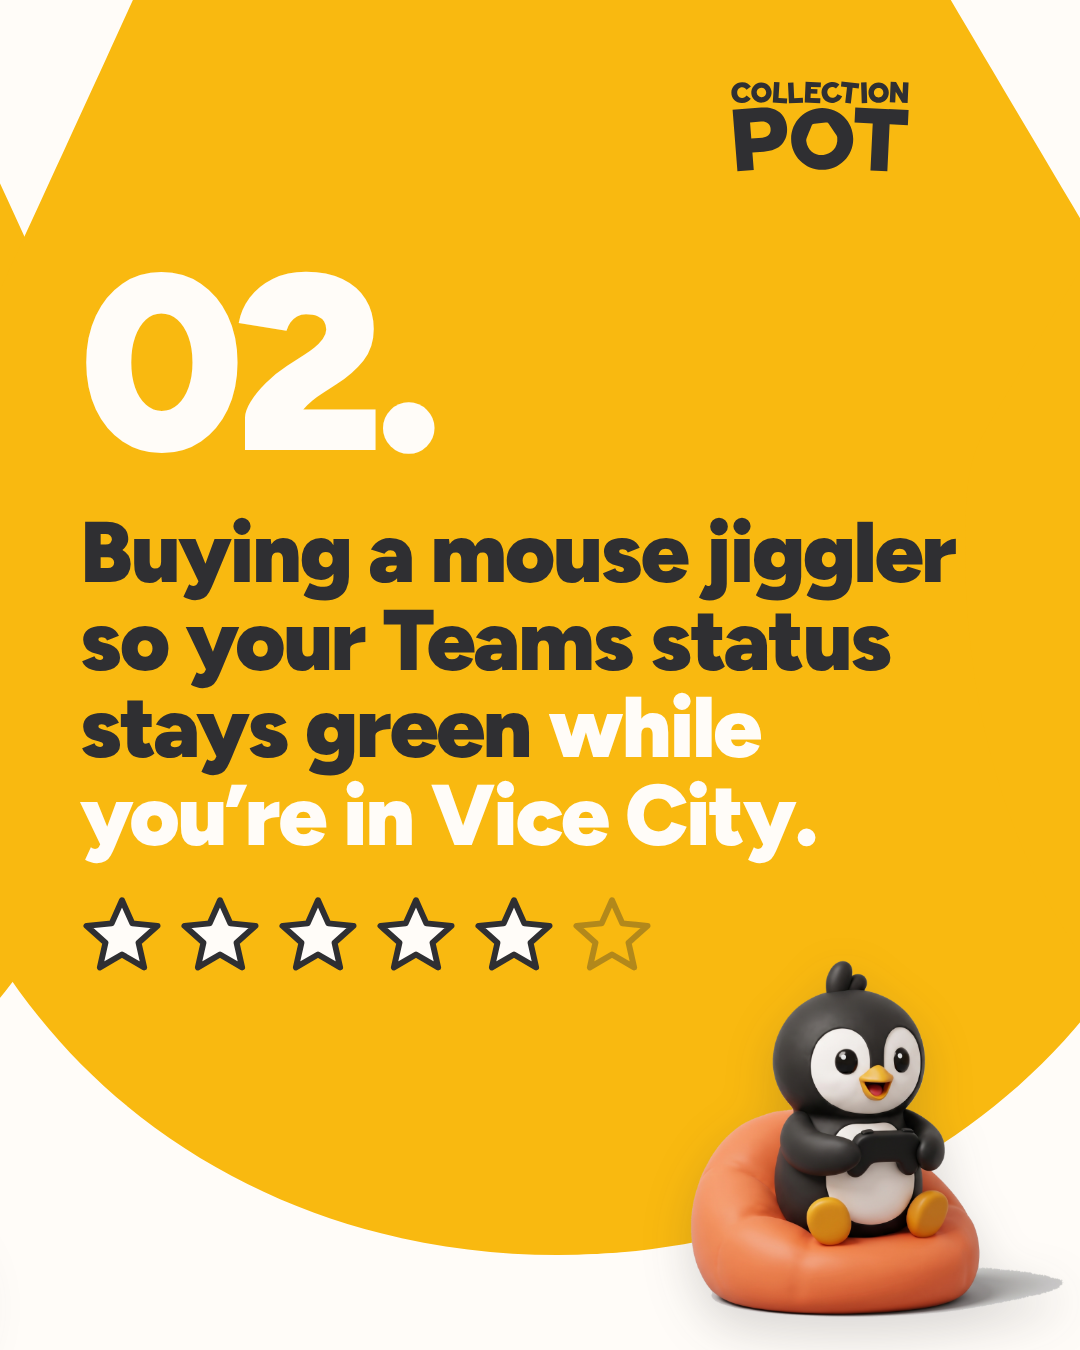
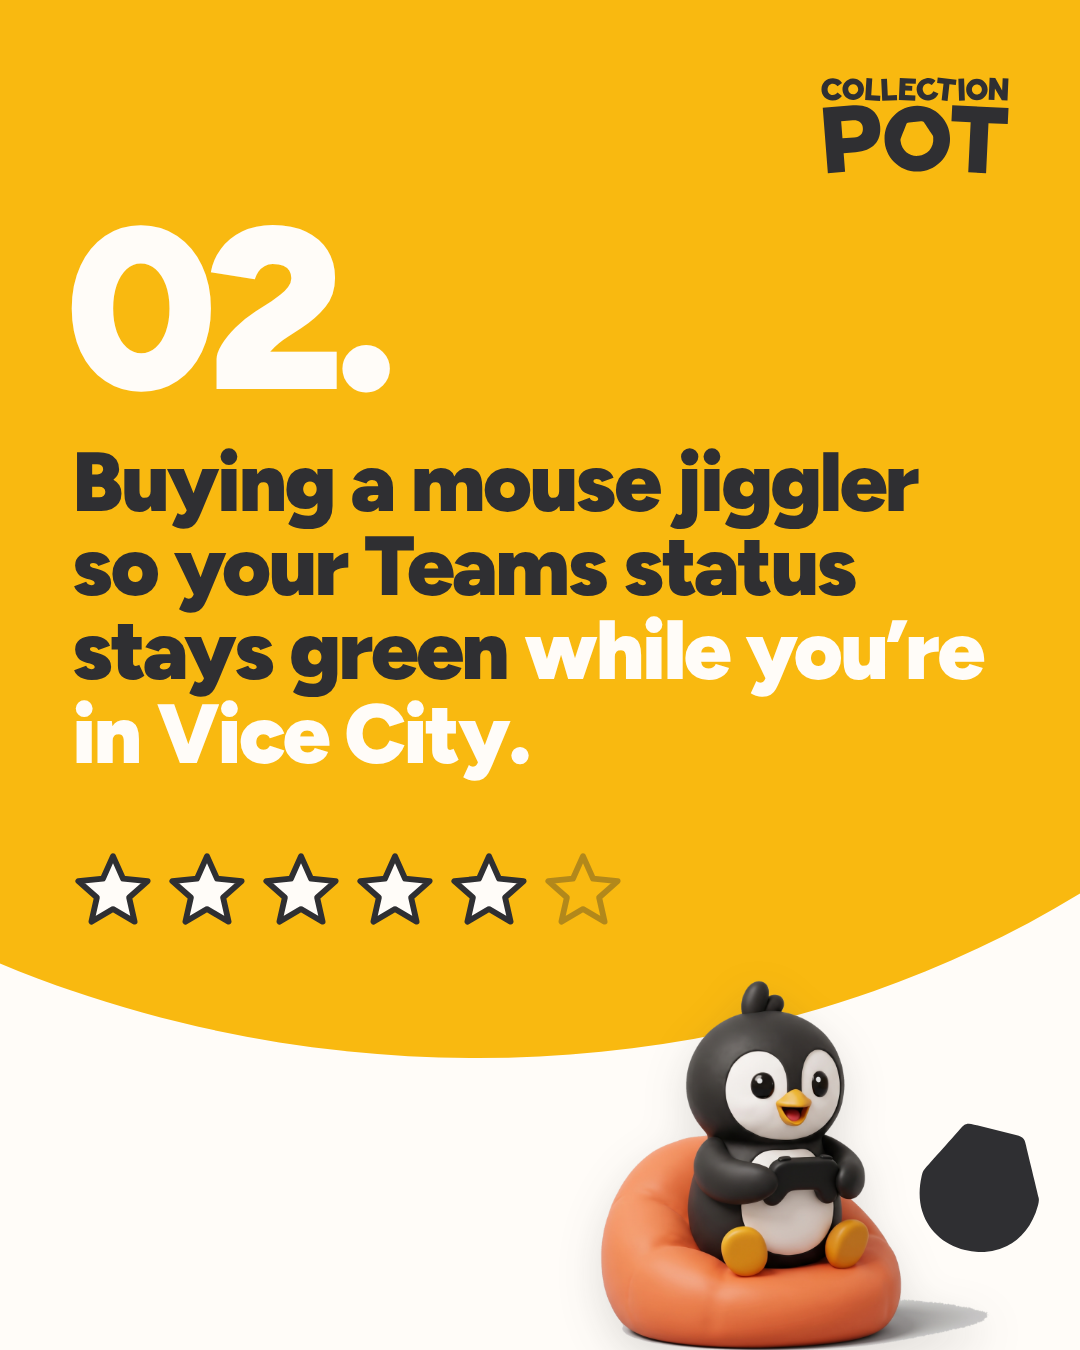
GTA 6 carousel v3: layouts rebuilt from guidelines p.44 'The Pot as a background'
Claude-Session: https://claude.ai/code/session_011HgaDvzB2TFRzZhuJwdZ16

diff --git a/collection-pot/gta6-wanted-level/carousel.html b/collection-pot/gta6-wanted-level/carousel.html
@@ -1,78 +1,117 @@
 <!doctype html>
-<html><head><meta charset="utf-8"><title>GTA 6 week — Wanted level carousel</title>
+<html lang="en-GB"><head><meta charset="utf-8"><title>GTA 6 week — Wanted level carousel (v3, Pot as a background)</title>
 <style>
 @font-face{font-family:Fig;font-weight:900;src:url(fonts/figtree-latin-900-normal.woff2)}
 @font-face{font-family:Fig;font-weight:800;src:url(fonts/figtree-latin-800-normal.woff2)}
-/* Collection Pot Brand Guidelines (Nov 2026): Pot of Gold, Work Bash Black, Wedding White */
-:root{--ink:#2F2F32;--yel:#F9B910;--white:#FFFCF8}
+/* Collection Pot Brand Guidelines (Nov 2026). Layouts follow p.44 "The Pot as a background":
+   the Pot is scaled far past the frame so its straight shoulders and soft base divide the space into gold and white. */
+:root{--gold:#F9B910;--ink:#2F2F32;--white:#FFFCF8}
 *{margin:0;padding:0;box-sizing:border-box}
-body{background:var(--white);width:6480px;height:1350px;overflow:hidden}
-#strip{position:relative;width:6480px;height:1350px;background:var(--white);overflow:hidden;color:var(--ink);font-family:Fig}
-svg.bg{position:absolute;left:0;top:0}
+body{background:#d9d9d9;display:flex;flex-direction:column;gap:40px;padding:40px;font-family:Fig;color:var(--ink)}
+.slide{position:relative;width:1080px;height:1350px;overflow:hidden}
+.gold{background:var(--gold)}.white{background:var(--white)}
 .a{position:absolute}
-.logo{position:absolute;top:80px;width:180px}
-.col{position:absolute;top:250px;width:880px;display:flex;flex-direction:column;gap:34px}
-.h{font:900 92px/1.02 Fig;letter-spacing:-.025em}
-.w{color:var(--white)}
-.num{font:900 250px/.9 Fig;letter-spacing:-.04em;color:var(--white)}
-.stars{display:flex;gap:14px}
-.stars svg{width:84px;height:84px}
-.chip{position:absolute;filter:drop-shadow(0 18px 24px rgba(47,47,50,.18))}
-.tag{display:inline-block;font:800 30px Fig;letter-spacing:.14em;text-transform:uppercase;background:var(--ink);color:var(--yel);padding:12px 20px 10px;border-radius:10px}
+svg.pot{position:absolute;overflow:visible}
+.h{font:900 104px/1 Fig;letter-spacing:-.03em}
+.sub{font:900 50px/1.12 Fig;letter-spacing:-.015em}
+.w{color:var(--white)}.g{color:var(--gold)}
+.num{font:900 230px/.86 Fig;letter-spacing:-.045em}
+.stars{display:flex;gap:12px}
+.stars svg{width:82px;height:82px}
+.chip{position:absolute;filter:drop-shadow(0 16px 22px rgba(47,47,50,.16))}
+.logo{position:absolute}
+.spark{position:absolute;width:56px;height:56px}
 </style></head><body>
-<div id="strip">
-  <!-- Brand device: the Pot. One giant Pot of Gold per slide on Wedding White (official PotShape.svg from the guidelines):
-       the rounded base shows at the bottom, the shoulders meet the neighbouring Pots so the carousel reads as one strip -->
-  <svg class="bg" width="6480" height="1350" viewBox="0 0 6480 1350">
-    <defs><symbol id="pot" viewBox="1018 100 852 880"><path d="M 1596.980469 100 L 1290.980469 100 C 1228.585938 100 1220.882812 120.351562 1203.972656 152.773438 C 1195.335938 171.796875 1041.378906 462.773438 1027.488281 491.195312 C 1018.324219 507.746094 1017.730469 526.679688 1018.011719 545.179688 C 1023.640625 837.699219 1233.628906 980 1443.683594 980 L 1444.273438 980 C 1654.347656 980 1864.316406 837.71875 1869.949219 545.179688 C 1870.230469 526.679688 1869.632812 507.746094 1860.46875 491.195312 C 1846.582031 462.773438 1692.621094 171.796875 1683.984375 152.773438 C 1667.078125 120.351562 1659.375 100 1596.980469 100"/></symbol></defs>
-    <g fill="#F9B910">
-    <use href="#pot" x="-115" y="-144" width="1350" height="1394" transform="rotate(-3 560 553)"/>
-    <use href="#pot" x="965" y="-159" width="1350" height="1394" transform="rotate(3 1640 538)"/>
-    <use href="#pot" x="2045" y="-139" width="1350" height="1394" transform="rotate(-3 2720 558)"/>
-    <use href="#pot" x="3125" y="-154" width="1350" height="1394" transform="rotate(3 3800 543)"/>
-    <use href="#pot" x="4205" y="-139" width="1350" height="1394" transform="rotate(-3 4880 558)"/>
-    <use href="#pot" x="5285" y="-149" width="1350" height="1394" transform="rotate(3 5960 548)"/>
-    </g>
-  </svg>
 
-  <!-- ===== 1 · cover ===== -->
-  <div class="col" style="left:80px;top:260px"><div class="h" style="font-size:118px">Things that raised your <span class="w">wanted level</span> this week:</div><div class="stars" data-n="6"></div></div>
-  <img class="chip" src="chip/placeholder-wink.png" style="left:520px;top:860px;width:480px" alt="">
+<!-- 1 · cover · "Impossible to forget" layout: gold, white Pot wedge cutting in from the right -->
+<section class="slide gold" id="s1">
+  <div class="pots"></div>
+  <img class="logo" src="brand/LogoStacked.svg" style="left:820px;top:76px;width:190px" alt="">
+  <div class="a h" style="left:72px;top:250px;width:760px;font-size:118px">Things that raised your <span class="w">wanted level</span> this week:</div>
+  <div class="a stars" style="left:72px;top:800px" data-n="6"></div>
+  <img class="chip" src="chip/placeholder-wink.png" style="left:560px;top:930px;width:400px" alt="">
+</section>
 
-  <!-- ===== 2 · 01 · 3 stars ===== -->
-  <div class="col" style="left:1160px"><div class="num">01.</div><div class="h">Blocking out Thursday 9–5 as <span class="w">“Deep focus. Do&nbsp;not&nbsp;disturb.”</span></div><div class="stars" data-n="3"></div></div>
-  <img class="chip" src="chip/placeholder-proud.png" style="left:1800px;top:950px;width:345px" alt="">
+<!-- 2 · 01 · 3★ · "Chill" layout: white above, the Pot's tilted top edge rising into gold below -->
+<section class="slide white" id="s2">
+  <div class="pots"></div>
+  <img class="logo" src="brand/LogoStacked.svg" style="left:820px;top:76px;width:190px" alt="">
+  <div class="a num g" style="left:66px;top:210px">01.</div>
+  <div class="a h" style="left:72px;top:440px;width:900px;font-size:88px">Blocking out Thursday 9–5 as “Deep focus. Do&nbsp;not&nbsp;disturb.”</div>
+  <div class="a stars" style="left:72px;top:1000px" data-n="3"></div>
+  <img class="chip" src="chip/placeholder-proud.png" style="left:680px;top:960px;width:340px" alt="">
+</section>
 
-  <!-- ===== 3 · 02 · 5 stars ===== -->
-  <div class="col" style="left:2240px"><div class="num">02.</div><div class="h" style="font-size:86px">Buying a mouse jiggler so your Teams status stays green <span class="w">while you’re in Vice City.</span></div><div class="stars" data-n="5"></div></div>
-  <img class="chip" src="chip/beanbag.png" style="left:2850px;top:960px;width:375px" alt="">
+<!-- 3 · 02 · 5★ · "So easy" layout: gold above, the Pot's rounded base sweeping over white below -->
+<section class="slide white" id="s3">
+  <div class="pots"></div>
+  <img class="logo" src="brand/LogoStacked.svg" style="left:820px;top:76px;width:190px" alt="">
+  <div class="a num w" style="left:66px;top:210px">02.</div>
+  <div class="a h" style="left:72px;top:440px;width:920px;font-size:84px">Buying a mouse jiggler so your Teams status stays green <span class="w">while you’re in Vice City.</span></div>
+  <div class="a stars" style="left:72px;top:850px" data-n="5"></div>
+  <img class="chip" src="chip/beanbag.png" style="left:600px;top:980px;width:390px" alt="">
+</section>
 
-  <!-- ===== 4 · 03 · 2 stars ===== -->
-  <div class="col" style="left:3320px"><div class="num">03.</div><div class="h">Camera off for Friday’s all-hands: <span class="w">“Sorry, my Wi-Fi’s really bad today.”</span></div><div class="stars" data-n="2"></div></div>
-  <img class="chip" src="chip/placeholder-happy.png" style="left:3970px;top:950px;width:335px" alt="">
+<!-- 4 · 03 · 2★ · "Chasing your mates" layout: gold, a white Pot corner bottom-right -->
+<section class="slide gold" id="s4">
+  <div class="pots"></div>
+  <img class="logo" src="brand/LogoStacked.svg" style="left:820px;top:76px;width:190px" alt="">
+  <div class="a num w" style="left:66px;top:210px">03.</div>
+  <div class="a h" style="left:72px;top:440px;width:920px;font-size:92px">Camera off for Friday’s all-hands: <span class="w">“Sorry, my Wi-Fi’s really bad today.”</span></div>
+  <div class="a stars" style="left:72px;top:880px" data-n="2"></div>
+  <img class="chip" src="chip/placeholder-happy.png" style="left:690px;top:990px;width:330px" alt="">
+</section>
 
-  <!-- ===== 5 · 04 · 6 stars ===== -->
-  <div class="col" style="left:4400px"><div class="num">04.</div><div class="h">Coming down with the Thursday–Friday flu. <span class="w">The whole team. Same day.</span></div><div class="stars" data-n="6"></div></div>
-  <img class="chip" src="chip/placeholder-excited.png" style="left:5040px;top:940px;width:345px" alt="">
+<!-- 5 · 04 · 6★ · "Make it one" layout: white, a giant tilted gold Pot from the bottom-right, punctuation Pots -->
+<section class="slide white" id="s5">
+  <div class="pots"></div>
+  <img class="logo" src="brand/LogoStacked.svg" style="left:820px;top:76px;width:190px" alt="">
+  <div class="a num g" style="left:66px;top:210px">04.</div>
+  <div class="a h" style="left:72px;top:440px;width:760px;font-size:90px">Coming down with the Thursday–Friday flu. <span class="g">The whole team. Same day.</span></div>
+  <div class="a stars" style="left:72px;top:1000px" data-n="6"></div>
+  <img class="chip" src="chip/placeholder-excited.png" style="left:640px;top:880px;width:400px" alt="">
+</section>
 
-  <!-- ===== 6 · sign-off · 6 stars ===== -->
-  <div class="col" style="left:5480px;top:300px"><div class="h" style="font-size:132px;line-height:.98">Stay safe out there.<br><span class="w">HR is watching.</span></div><div class="stars" data-n="6"></div></div>
-  <img class="chip" src="chip/placeholder-wave.png" style="left:6120px;top:920px;width:350px" alt="">
+<!-- 6 · sign-off · 6★ · gold, the logo sitting in a white Pot corner -->
+<section class="slide gold" id="s6">
+  <div class="pots"></div>
+  <div class="a h" style="left:72px;top:230px;width:920px;font-size:140px;line-height:.96">Stay safe out there. <span class="w">HR is watching.</span></div>
+  <div class="a stars" style="left:72px;top:800px" data-n="6"></div>
+  <img class="chip" src="chip/placeholder-wave.png" style="left:110px;top:950px;width:360px" alt="">
+  <img class="logo" src="brand/LogoStacked.svg" style="left:640px;top:1110px;width:330px" alt="">
+</section>
 
-  <div id="logos"></div>
-</div>
 <script>
-// six-star wanted meter: filled = white with charcoal outline (the classic look), empty = outline only
+// Official Pot outline (brand/PotShape.svg, from the guidelines). viewBox 852×880.
+const POT = 'M 1596.98 100 L 1290.98 100 C 1228.59 100 1220.88 120.35 1203.97 152.77 C 1195.34 171.8 1041.38 462.77 1027.49 491.2 C 1018.32 507.75 1017.73 526.68 1018.01 545.18 C 1023.64 837.7 1233.63 980 1443.68 980 L 1444.27 980 C 1654.35 980 1864.32 837.72 1869.95 545.18 C 1870.23 526.68 1869.63 507.75 1860.47 491.2 C 1846.58 462.77 1692.62 171.8 1683.98 152.77 C 1667.08 120.35 1659.38 100 1596.98 100 Z';
+// cx, cy = centre of the Pot; w = width; r = rotation (deg); fill / stroke
+const pot = (cx, cy, w, r, fill, stroke = 'none', sw = 0) => {
+  const h = w * 880 / 852;
+  return `<svg class="pot" viewBox="1018 100 852 880" style="left:${cx - w / 2}px;top:${cy - h / 2}px;width:${w}px;height:${h}px;transform:rotate(${r}deg)">`
+    + `<path d="${POT}" fill="${fill}" stroke="${stroke}" stroke-width="${sw * 852 / w}" stroke-linejoin="round"/></svg>`;
+};
+const W = '#FFFCF8', G = '#F9B910', K = '#2F2F32';
+const spark = (x, y, s, c = G) => `<svg class="spark" viewBox="0 0 24 24" style="left:${x}px;top:${y}px;width:${s}px;height:${s}px"><path d="M12 0C13 7 17 11 24 12C17 13 13 17 12 24C11 17 7 13 0 12C7 11 11 7 12 0Z" fill="${c}"/></svg>`;
+const LAYOUT = {
+  // giant white Pot: its left shoulder slices a wedge down the right-hand side
+  s1: pot(1720, 1500, 2300, -22, W) + pot(980, 1240, 150, 10, G) ,
+  // giant gold Pot: its tilted top edge rises across the lower half
+  s2: pot(560, 2340, 2700, -8, G) + pot(560, 1215, 170, -12, 'none', K, 7),
+  // giant gold Pot from above: its rounded base sweeps across the bottom third
+  s3: pot(470, -130, 2300, 6, G) + pot(980, 1190, 120, 14, K),
+  // white Pot corner bottom-right
+  s4: pot(1160, 1640, 1250, -18, W),
+  // giant tilted gold Pot rising from the bottom-right, with punctuation Pots and sparkles
+  s5: pot(1360, 1830, 1900, -32, G) + pot(940, 760, 120, 18, K) + pot(1015, 905, 110, -10, 'none', K, 6) + spark(860, 620, 46) + spark(1010, 650, 30),
+  // white Pot corner holding the logo
+  s6: pot(980, 1560, 1150, 14, W),
+};
+for (const [id, html] of Object.entries(LAYOUT)) document.querySelector(`#${id} .pots`).innerHTML = html;
+// six-star wanted meter
 const STAR = 'M12 1.8l2.95 6.6 7.2.7-5.43 4.8 1.6 7.07L12 17.3 5.68 20.97l1.6-7.07L1.85 9.1l7.2-.7z';
-document.querySelectorAll('.stars').forEach(el => {
-  const n = +el.dataset.n; let h = '';
-  for (let i = 0; i < 6; i++) h += i < n
-    ? `<svg viewBox="0 0 24 24"><path d="${STAR}" fill="#FFFCF8" stroke="#2F2F32" stroke-width="1.7" stroke-linejoin="round"/></svg>`
-    : `<svg viewBox="0 0 24 24"><path d="${STAR}" fill="none" stroke="#2F2F32" stroke-opacity=".35" stroke-width="1.7" stroke-linejoin="round"/></svg>`;
-  el.innerHTML = h;
-});
-// official stacked logo (LogoStacked.svg, from the guidelines) top-right on every slide
-let L = ''; for (let s = 0; s < 6; s++) L += `<img class="logo" src="brand/LogoStacked.svg" style="left:${s * 1080 + 730}px" alt="Collection Pot">`;
-document.getElementById('logos').innerHTML = L;
+document.querySelectorAll('.stars').forEach(el => { const n = +el.dataset.n; let h = '';
+  for (let i = 0; i < 6; i++) h += i < n ? `<svg viewBox="0 0 24 24"><path d="${STAR}" fill="${W}" stroke="${K}" stroke-width="1.7" stroke-linejoin="round"/></svg>`
+    : `<svg viewBox="0 0 24 24"><path d="${STAR}" fill="none" stroke="${K}" stroke-opacity=".35" stroke-width="1.7" stroke-linejoin="round"/></svg>`;
+  el.innerHTML = h; });
 </script>
 </body></html>

diff --git a/collection-pot/gta6-wanted-level/carousel-v2-strip.html b/collection-pot/gta6-wanted-level/carousel-v2-strip.html
@@ -1,0 +1,78 @@
+<!doctype html>
+<html><head><meta charset="utf-8"><title>GTA 6 week — Wanted level carousel</title>
+<style>
+@font-face{font-family:Fig;font-weight:900;src:url(fonts/figtree-latin-900-normal.woff2)}
+@font-face{font-family:Fig;font-weight:800;src:url(fonts/figtree-latin-800-normal.woff2)}
+/* Collection Pot Brand Guidelines (Nov 2026): Pot of Gold, Work Bash Black, Wedding White */
+:root{--ink:#2F2F32;--yel:#F9B910;--white:#FFFCF8}
+*{margin:0;padding:0;box-sizing:border-box}
+body{background:var(--white);width:6480px;height:1350px;overflow:hidden}
+#strip{position:relative;width:6480px;height:1350px;background:var(--white);overflow:hidden;color:var(--ink);font-family:Fig}
+svg.bg{position:absolute;left:0;top:0}
+.a{position:absolute}
+.logo{position:absolute;top:80px;width:180px}
+.col{position:absolute;top:250px;width:880px;display:flex;flex-direction:column;gap:34px}
+.h{font:900 92px/1.02 Fig;letter-spacing:-.025em}
+.w{color:var(--white)}
+.num{font:900 250px/.9 Fig;letter-spacing:-.04em;color:var(--white)}
+.stars{display:flex;gap:14px}
+.stars svg{width:84px;height:84px}
+.chip{position:absolute;filter:drop-shadow(0 18px 24px rgba(47,47,50,.18))}
+.tag{display:inline-block;font:800 30px Fig;letter-spacing:.14em;text-transform:uppercase;background:var(--ink);color:var(--yel);padding:12px 20px 10px;border-radius:10px}
+</style></head><body>
+<div id="strip">
+  <!-- Brand device: the Pot. One giant Pot of Gold per slide on Wedding White (official PotShape.svg from the guidelines):
+       the rounded base shows at the bottom, the shoulders meet the neighbouring Pots so the carousel reads as one strip -->
+  <svg class="bg" width="6480" height="1350" viewBox="0 0 6480 1350">
+    <defs><symbol id="pot" viewBox="1018 100 852 880"><path d="M 1596.980469 100 L 1290.980469 100 C 1228.585938 100 1220.882812 120.351562 1203.972656 152.773438 C 1195.335938 171.796875 1041.378906 462.773438 1027.488281 491.195312 C 1018.324219 507.746094 1017.730469 526.679688 1018.011719 545.179688 C 1023.640625 837.699219 1233.628906 980 1443.683594 980 L 1444.273438 980 C 1654.347656 980 1864.316406 837.71875 1869.949219 545.179688 C 1870.230469 526.679688 1869.632812 507.746094 1860.46875 491.195312 C 1846.582031 462.773438 1692.621094 171.796875 1683.984375 152.773438 C 1667.078125 120.351562 1659.375 100 1596.980469 100"/></symbol></defs>
+    <g fill="#F9B910">
+    <use href="#pot" x="-115" y="-144" width="1350" height="1394" transform="rotate(-3 560 553)"/>
+    <use href="#pot" x="965" y="-159" width="1350" height="1394" transform="rotate(3 1640 538)"/>
+    <use href="#pot" x="2045" y="-139" width="1350" height="1394" transform="rotate(-3 2720 558)"/>
+    <use href="#pot" x="3125" y="-154" width="1350" height="1394" transform="rotate(3 3800 543)"/>
+    <use href="#pot" x="4205" y="-139" width="1350" height="1394" transform="rotate(-3 4880 558)"/>
+    <use href="#pot" x="5285" y="-149" width="1350" height="1394" transform="rotate(3 5960 548)"/>
+    </g>
+  </svg>
+
+  <!-- ===== 1 · cover ===== -->
+  <div class="col" style="left:80px;top:260px"><div class="h" style="font-size:118px">Things that raised your <span class="w">wanted level</span> this week:</div><div class="stars" data-n="6"></div></div>
+  <img class="chip" src="chip/placeholder-wink.png" style="left:520px;top:860px;width:480px" alt="">
+
+  <!-- ===== 2 · 01 · 3 stars ===== -->
+  <div class="col" style="left:1160px"><div class="num">01.</div><div class="h">Blocking out Thursday 9–5 as <span class="w">“Deep focus. Do&nbsp;not&nbsp;disturb.”</span></div><div class="stars" data-n="3"></div></div>
+  <img class="chip" src="chip/placeholder-proud.png" style="left:1800px;top:950px;width:345px" alt="">
+
+  <!-- ===== 3 · 02 · 5 stars ===== -->
+  <div class="col" style="left:2240px"><div class="num">02.</div><div class="h" style="font-size:86px">Buying a mouse jiggler so your Teams status stays green <span class="w">while you’re in Vice City.</span></div><div class="stars" data-n="5"></div></div>
+  <img class="chip" src="chip/beanbag.png" style="left:2850px;top:960px;width:375px" alt="">
+
+  <!-- ===== 4 · 03 · 2 stars ===== -->
+  <div class="col" style="left:3320px"><div class="num">03.</div><div class="h">Camera off for Friday’s all-hands: <span class="w">“Sorry, my Wi-Fi’s really bad today.”</span></div><div class="stars" data-n="2"></div></div>
+  <img class="chip" src="chip/placeholder-happy.png" style="left:3970px;top:950px;width:335px" alt="">
+
+  <!-- ===== 5 · 04 · 6 stars ===== -->
+  <div class="col" style="left:4400px"><div class="num">04.</div><div class="h">Coming down with the Thursday–Friday flu. <span class="w">The whole team. Same day.</span></div><div class="stars" data-n="6"></div></div>
+  <img class="chip" src="chip/placeholder-excited.png" style="left:5040px;top:940px;width:345px" alt="">
+
+  <!-- ===== 6 · sign-off · 6 stars ===== -->
+  <div class="col" style="left:5480px;top:300px"><div class="h" style="font-size:132px;line-height:.98">Stay safe out there.<br><span class="w">HR is watching.</span></div><div class="stars" data-n="6"></div></div>
+  <img class="chip" src="chip/placeholder-wave.png" style="left:6120px;top:920px;width:350px" alt="">
+
+  <div id="logos"></div>
+</div>
+<script>
+// six-star wanted meter: filled = white with charcoal outline (the classic look), empty = outline only
+const STAR = 'M12 1.8l2.95 6.6 7.2.7-5.43 4.8 1.6 7.07L12 17.3 5.68 20.97l1.6-7.07L1.85 9.1l7.2-.7z';
+document.querySelectorAll('.stars').forEach(el => {
+  const n = +el.dataset.n; let h = '';
+  for (let i = 0; i < 6; i++) h += i < n
+    ? `<svg viewBox="0 0 24 24"><path d="${STAR}" fill="#FFFCF8" stroke="#2F2F32" stroke-width="1.7" stroke-linejoin="round"/></svg>`
+    : `<svg viewBox="0 0 24 24"><path d="${STAR}" fill="none" stroke="#2F2F32" stroke-opacity=".35" stroke-width="1.7" stroke-linejoin="round"/></svg>`;
+  el.innerHTML = h;
+});
+// official stacked logo (LogoStacked.svg, from the guidelines) top-right on every slide
+let L = ''; for (let s = 0; s < 6; s++) L += `<img class="logo" src="brand/LogoStacked.svg" style="left:${s * 1080 + 730}px" alt="Collection Pot">`;
+document.getElementById('logos').innerHTML = L;
+</script>
+</body></html>

diff --git a/collection-pot/gta6-wanted-level/render.js b/collection-pot/gta6-wanted-level/render.js
@@ -1,18 +1,23 @@
-// Render the continuous 6480×1350 strip in carousel.html into six 1080×1350 Instagram slides.
-// Usage: node render.js            → out/gta6-01.png … out/gta6-06.png and out/strip.png
+// Render every <section class="slide"> in carousel.html to a 1080×1350 PNG, plus a side-by-side overview.
+// Usage: node render.js   → out/gta6-01.png … out/gta6-06.png, out/strip.png
 const { chromium } = require('playwright');
 const path = require('path');
 (async () => {
   const b = await chromium.launch();
-  const p = await b.newPage({ viewport: { width: 6480, height: 1350 }, deviceScaleFactor: 1 });
+  const p = await b.newPage({ viewport: { width: 1200, height: 1500 }, deviceScaleFactor: 1 });
   await p.goto('file://' + path.resolve(__dirname, 'carousel.html'));
   await p.evaluate(() => document.fonts.ready);
   await p.waitForTimeout(600);
-  await p.screenshot({ path: path.join(__dirname, 'out', 'strip.png'), clip: { x: 0, y: 0, width: 6480, height: 1350 } });
-  for (let i = 0; i < 6; i++) {
+  const slides = await p.$$('section.slide');
+  const files = [];
+  for (let i = 0; i < slides.length; i++) {
     const out = path.join(__dirname, 'out', 'gta6-' + String(i + 1).padStart(2, '0') + '.png');
-    await p.screenshot({ path: out, clip: { x: i * 1080, y: 0, width: 1080, height: 1350 } });
+    await slides[i].screenshot({ path: out });
+    files.push(out);
     console.log(out);
   }
   await b.close();
+  // overview strip (slides side by side)
+  require('child_process').execFileSync('ffmpeg', ['-v', 'error', '-y', ...files.flatMap(f => ['-i', f]),
+    '-filter_complex', `hstack=inputs=${files.length}`, path.join(__dirname, 'out', 'strip.png')]);
 })();

diff --git a/collection-pot/gta6-wanted-level/README.md b/collection-pot/gta6-wanted-level/README.md
@@ -3,10 +3,12 @@
 Topical, no hard sell. 6 slides, 1080×1350, built as one 6480×1350 strip in `carousel.html` and sliced by `render.js`.
 
 **Brand (Collection Pot Brand Guidelines, Nov 2026):** Pot of Gold #F9B910, Work Bash Black #2F2F32, Wedding White #FFFCF8.
-The only background shape is **the Pot** (`brand/PotShape.svg`, the official vector from the guidelines): one giant gold Pot per
-slide on Wedding White, with shoulders and rounded base visible; neighbouring Pots meet at the seams so the slides flow.
-Official stacked logo (`brand/LogoStacked.svg`) top-right on the gold. Headlines in sentence case (Figtree Black standing in for Faro Display Lucky).
-No free-form blobs or waves.
+Layouts follow guidelines p.44 "The Pot as a background" (`ref/guidelines-p44-pot-as-background.jpg`): the official Pot
+(`brand/PotShape.svg`) is scaled far beyond the frame so its straight shoulders and soft base divide each slide into gold and
+white, and every slide divides the space differently (white wedge · gold rising · gold base above · white corner · giant tilted
+Pot · Pot corner holding the logo). Small solid/outlined Pots and sparkles act as punctuation next to Chip.
+Official stacked logo (`brand/LogoStacked.svg`). Sentence-case headlines (Figtree Black standing in for Faro Display Lucky).
+No free-form blobs or waves. Previous version (Pots in a continuous strip) kept as `carousel-v2-strip.html`.
 
 | # | Copy | Wanted level | Chip |
 |---|---|---|---|
